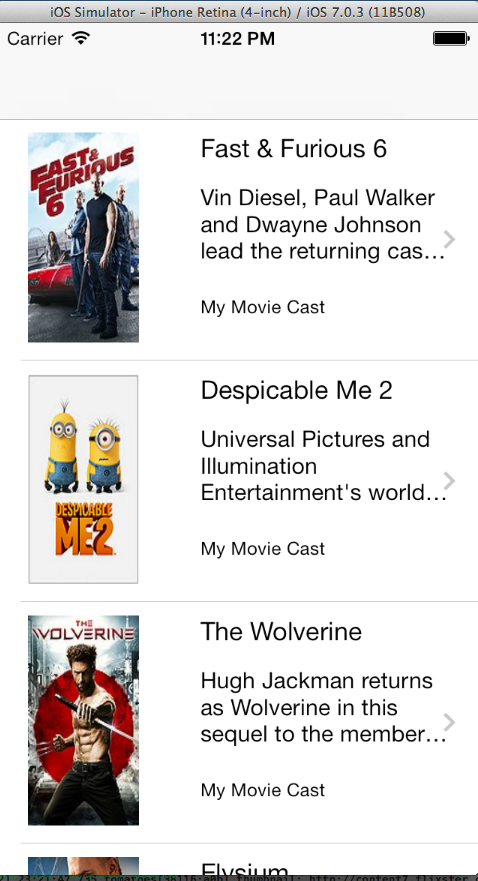
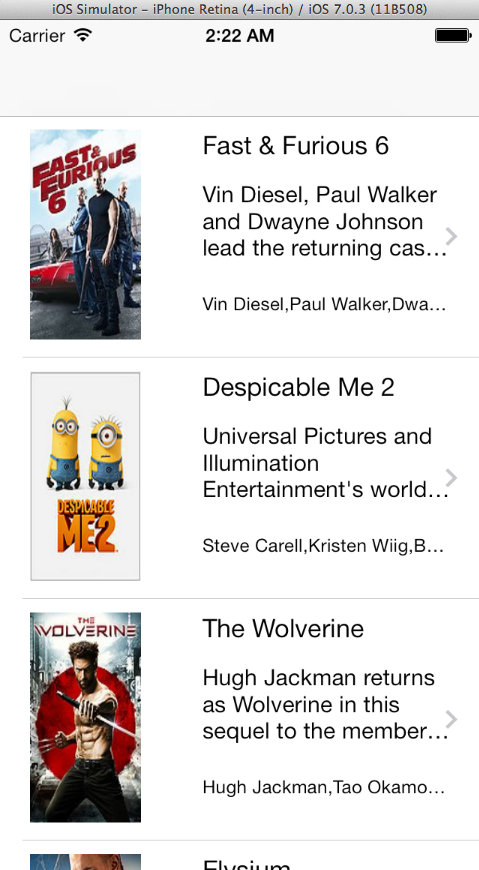
got cast showing up correctly

diff --git a/tomatoes/Movie.m b/tomatoes/Movie.m
@@ -22,7 +22,17 @@
         //        detailedPoster = [[dict objectForKey:@"posters"] objectForKey:@"detailed"];
         profilePoster = [[dict objectForKey:@"posters"] objectForKey:@"profile"];
         
-        //NSString *cast;
+        NSLog(@"Cast:%@",[dict objectForKey:@"abridged_cast"] );
+        NSArray *array = [dict objectForKey:@"abridged_cast"];
+        NSMutableArray *cast_array = [NSMutableArray arrayWithCapacity:array.count];
+        
+        for(NSDictionary *item in array) {
+            [cast_array addObject:[item objectForKey:@"name"]];
+        }
+        NSLog(@"cast_array:%@", cast_array);
+        cast = [cast_array componentsJoinedByString:@","];
+                NSLog(@"cast_string:%@", cast);
+        
         
     }
     
@@ -31,7 +41,7 @@
 }
 
 
--(id)initWithTitle:(NSString *)movTitle synopsis:(NSString *)movSynopsis profilePoster:(NSString *)movProfilePoster   {
+-(id)initWithTitle:(NSString *)movTitle synopsis:(NSString *)movSynopsis profilePoster:(NSString *)movProfilePoster  cast:(NSString *)movCast {
     
     if(self = [super  init])
     {
@@ -41,7 +51,7 @@
         //        detailedPoster = [[dict objectForKey:@"posters"] objectForKey:@"detailed"];
         profilePoster = movProfilePoster;
         
-        //NSString *cast;
+        cast = movCast;
         
     }
     

diff --git a/MoviesViewController.m b/MoviesViewController.m
@@ -99,12 +99,16 @@
     
     
     NSDictionary *movie = self.movies[indexPath.row];
+    
+    
+    
     Movie *mov = [Movie alloc];
     mov = [mov initWithDictionary:movie];
     
     cell.moviesTitleLabel.text = mov->title;
     cell.synopsisLabel.text = mov->synopsis;
-    cell.castLabel.text = @"My Movie Cast ";
+    cell.castLabel.text = mov->cast;
+    
     
 //    NSDictionary *poster = [movie objectForKey:@"posters"];
     
@@ -145,7 +149,7 @@
     if([[segue identifier] isEqualToString:@"DetailViewControllerSegue"]){
         DetailViewController *cvc = (DetailViewController *)[segue destinationViewController];
         MovieCell *curCell = sender;
-        cvc.movie = [[Movie alloc] initWithTitle:curCell.moviesTitleLabel.text synopsis:curCell.synopsisLabel.text profilePoster:curCell.posterUrl];
+        cvc.movie = [[Movie alloc] initWithTitle:curCell.moviesTitleLabel.text synopsis:curCell.synopsisLabel.text profilePoster:curCell.posterUrl cast:curCell.castLabel.text];
 
     }
 }

diff --git a/tomatoes/Movie.h b/tomatoes/Movie.h
@@ -17,13 +17,13 @@
 //    NSString *detailedPoster;
     NSString *title;
     NSString *synopsis;
-//    NSString *cast;
+    NSString *cast;
     
 }
 
 -(id)initWithDictionary: (NSDictionary *)dict;
 
--(id)initWithTitle:(NSString *)movTitle synopsis:(NSString *)movSynopsis profilePoster:(NSString *)movProfilePoster;
+-(id)initWithTitle:(NSString *)movTitle synopsis:(NSString *)movSynopsis profilePoster:(NSString *)movProfilePoster cast:(NSString *)movCast;
 
 
 @end

diff --git a/tomatoes/DetailViewController.m b/tomatoes/DetailViewController.m
@@ -35,7 +35,7 @@
     self.castLabel.text = self.str;
     self.moviesTitleLabel.text = self.movie->title;
     self.synopsisLabel.text = self.movie->synopsis;
-    
+    self.castLabel.text = self.movie->cast;
     [self.poster setImageWithURL:[NSURL URLWithString:self.movie->profilePoster]];
 }
 
